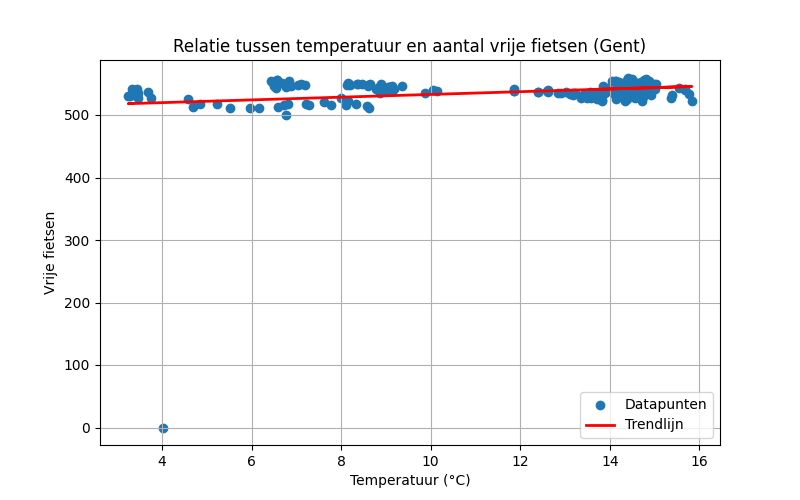
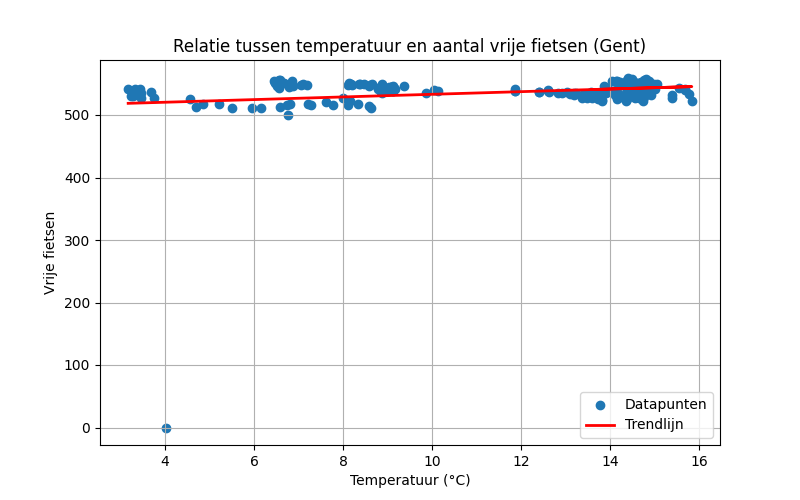
Automatische update 2025-11-17 22:30:09

diff --git a/reports/report.md b/reports/report.md
@@ -1,22 +1,22 @@
 # Data Workflow Rapport
 
-**Gegenereerd op:** 2025-11-17 22:15:08.327263
+**Gegenereerd op:** 2025-11-17 22:30:09.040728
 
 ## Grafiek: Vrije fietsen vs Temperatuur
 ![Fietsen vs Temp](fiets_vs_temp.png)
 
 ## Basisstatistieken
-- Gemiddelde temperatuur: 11.16 °C
+- Gemiddelde temperatuur: 11.11 °C
 - Gemiddeld aantal vrije fietsen: 535
 - Gemiddeld aantal fietsen overdag (07-19u): 536
 - Gemiddeld aantal fietsen ’s nachts (19-07u): 535
-- Correlatie: 0.20
+- Correlatie: 0.19
 
 ## Vrije fietsen per weekdag
 
 | Weekdag | Min | Max | Gemiddelde |
 |---------|-----|-----|------------|
-| Maandag | 0 | 556 | 508 |
+| Maandag | 0 | 556 | 509 |
 | Dinsdag | 0 | 0 | 0 |
 | Woensdag | 0 | 0 | 0 |
 | Donderdag | 525 | 550 | 535 |
